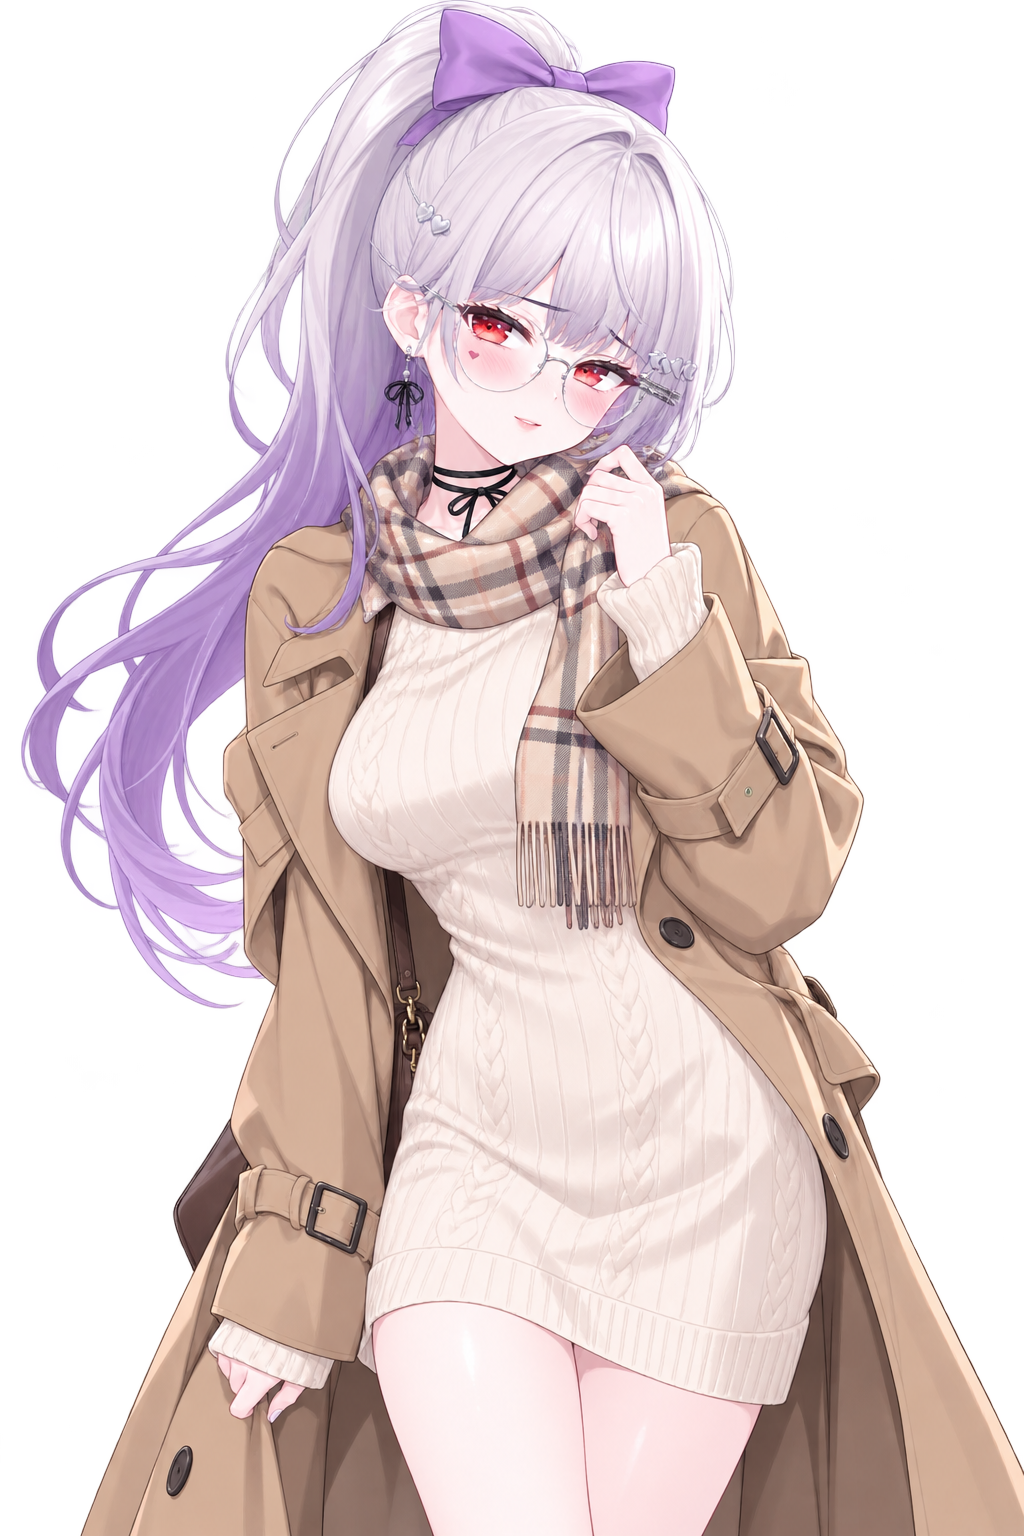
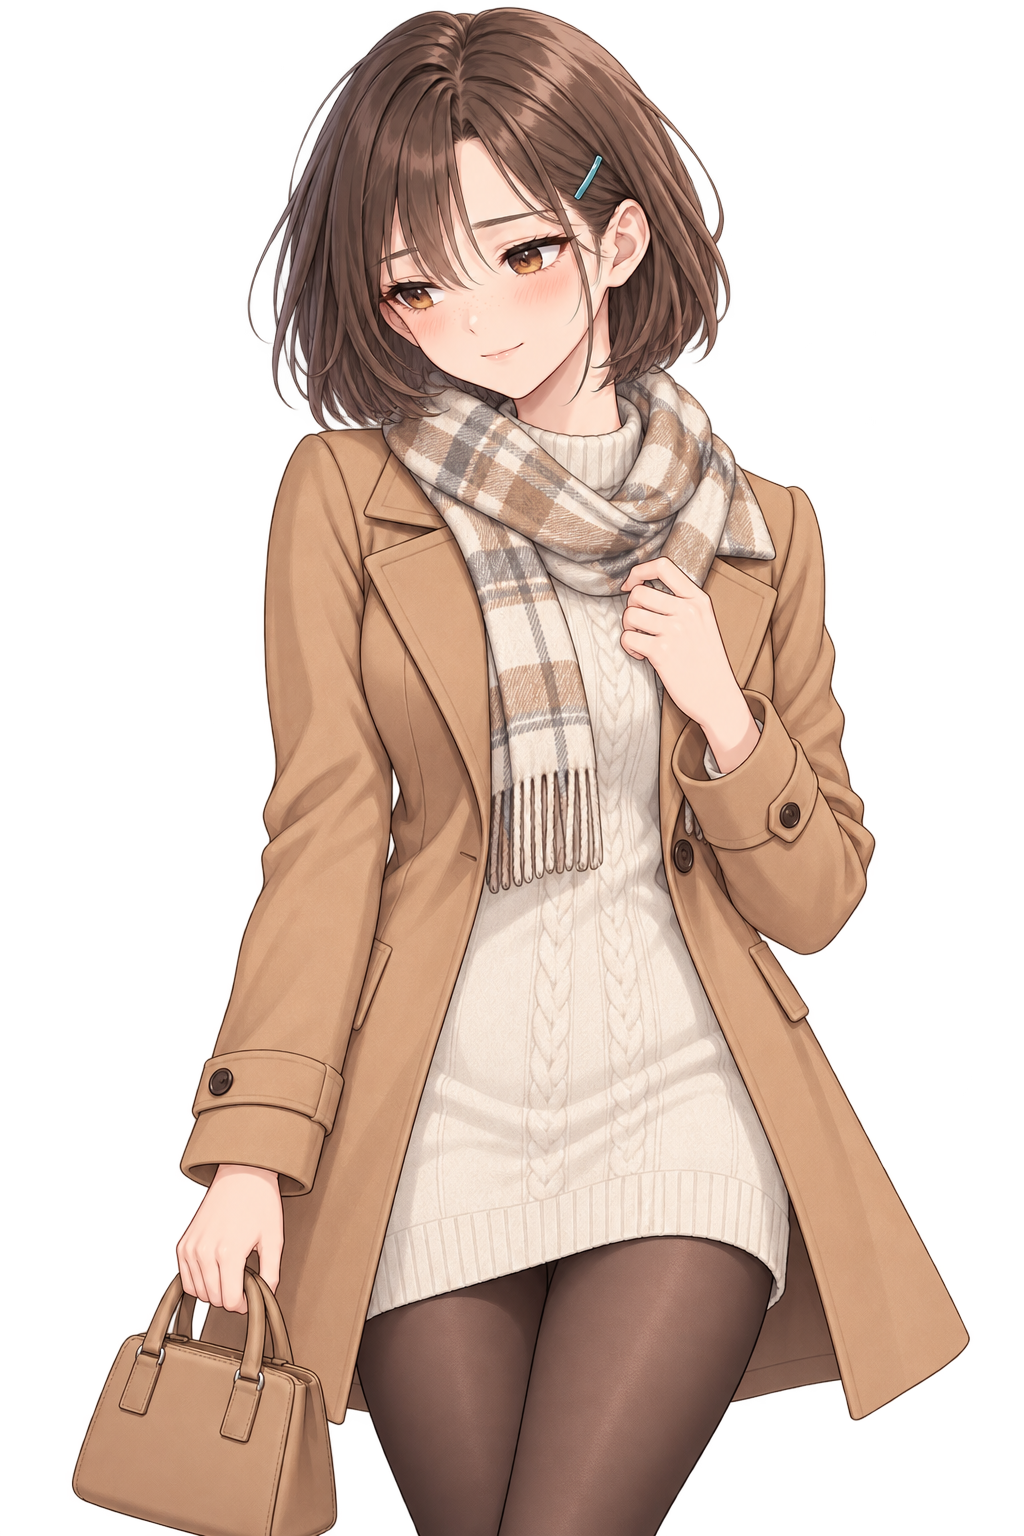
CH24 꾸민 의상 스탠딩 일러스트 교체

diff --git a/docs/illustration-replacement-prompts.md b/docs/illustration-replacement-prompts.md
@@ -194,16 +194,18 @@ CG는 공통 CG 블록과 파일별 장면 프롬프트를 이어 붙인다. 무
 
 ### CH24 꾸민 의상 P24 세트
 
-의상 블록: 무릎 아래 길이의 캐멀색 코트, 크림색 무릎 길이 니트 원피스, 차분한 체크 목도리, 단색 숄더백. 단정하고 보온성 있는 외출복.
+공통 구도: 머리 위부터 무릎 바로 위까지 보이는 무릎 위 크롭.
+
+의상 블록: 허리선이 단정하게 잡히고 무릎 바로 위까지 오는 캐멀색 테일러드 코트, 크림색 니트 원피스는 허벅지 중간까지 오는 짧은 기장, 불투명한 짙은 갈색 타이츠, 크림·캐멀·회색이 섞인 차분한 체크 목도리. 작은 무지 캐멀색 손가방은 짧은 손잡이만 있고 어깨끈이나 크로스백 끈은 없다. 코트와 원피스는 따뜻하고 단정하게 표현한다.
 
 | 파일 | 개별 표정·포즈 프롬프트 |
 |---|---|
-| [P24-1.png](../assets/standing/P24-1.png) | 차분한 표정, 한 손으로 목도리 끝을 잡고 자연스럽게 선다. |
-| [P24-2.png](../assets/standing/P24-2.png) | 약속 장소에서 반갑게 웃으며 목도리를 살짝 고쳐 맨다. |
-| [P24-3.png](../assets/standing/P24-3.png) | 상대의 말을 듣고 놀란 얼굴, 눈이 커지고 손이 가슴 가까이 올라간다. |
-| [P24-4.png](../assets/standing/P24-4.png) | 한결 편안해진 하루에 수줍게 웃으며 시선을 아래로 내린다. |
-| [P24-5.png](../assets/standing/P24-5.png) | 상대가 즉흥적으로 움직여 걱정스러운 표정, 손끝으로 목도리를 만진다. |
-| [P24-6.png](../assets/standing/P24-6.png) | 장난스럽고 새침한 눈빛, 입술을 살짝 내밀고 한 손을 코트 주머니에 둔다. |
+| [P24-1.png](../assets/standing/P24-1.png) | 차분한 표정, 한 손으로 목도리를 잡고 다른 손으로 손가방을 든다. |
+| [P24-2.png](../assets/standing/P24-2.png) | 반갑게 웃으며 목도리를 살짝 고쳐 매고 손가방을 든다. |
+| [P24-3.png](../assets/standing/P24-3.png) | 상대의 말을 듣고 놀라 눈을 크게 뜨며 한 손을 가슴 가까이 든다. |
+| [P24-4.png](../assets/standing/P24-4.png) | 수줍게 웃으며 시선을 아래로 내리고 한 손으로 목도리를 잡는다. |
+| [P24-5.png](../assets/standing/P24-5.png) | 걱정스러운 표정으로 목도리를 만지고 손가방을 다른 손으로 든다. |
+| [P24-6.png](../assets/standing/P24-6.png) | 장난스럽고 새침한 눈빛으로 옆을 보며 한 손은 코트 주머니에, 다른 손은 가방을 든다. |
 
 ### CH27 졸업 가운 GR 세트
 
@@ -272,4 +274,4 @@ CG는 공통 CG 블록과 파일별 장면 프롬프트를 이어 붙인다. 무
 - 이미지 모델이 만든 문자·로고·워터마크는 제거하고, 필요한 문구는 별도로 편집한다.
 - 인물 외형 참조에는 승인된 공통 캐릭터 기준 이미지만 사용한다. 사용자가 특정 의상 참고 이미지를 제공한 경우에는 지정된 의상 형태만 참고하고 얼굴·머리·포즈·배경은 복사하지 않는다. 결과가 새 공통 캐릭터 기준과 다르면 해당 파일을 다시 생성한다.
 
-이 문서는 교체 대상의 프롬프트와 파일 대응표다. S·W·G·A·C1·P1·C13·P13·C16·P16·C24 스탠딩 세트의 생성과 파일 교체를 완료했으며, 나머지 이미지는 작업별로 진행한다.
+이 문서는 교체 대상의 프롬프트와 파일 대응표다. S·W·G·A·C1·P1·C13·P13·C16·P16·C24·P24 스탠딩 세트의 생성과 파일 교체를 완료했으며, 나머지 이미지는 작업별로 진행한다.
